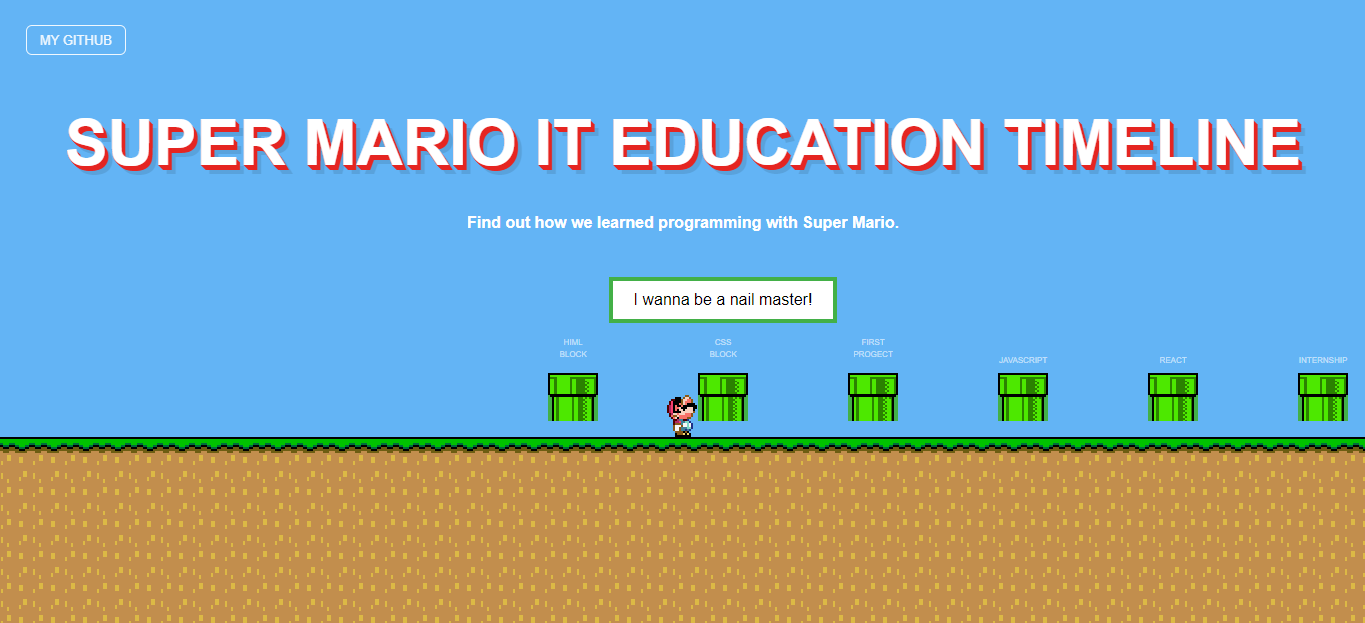
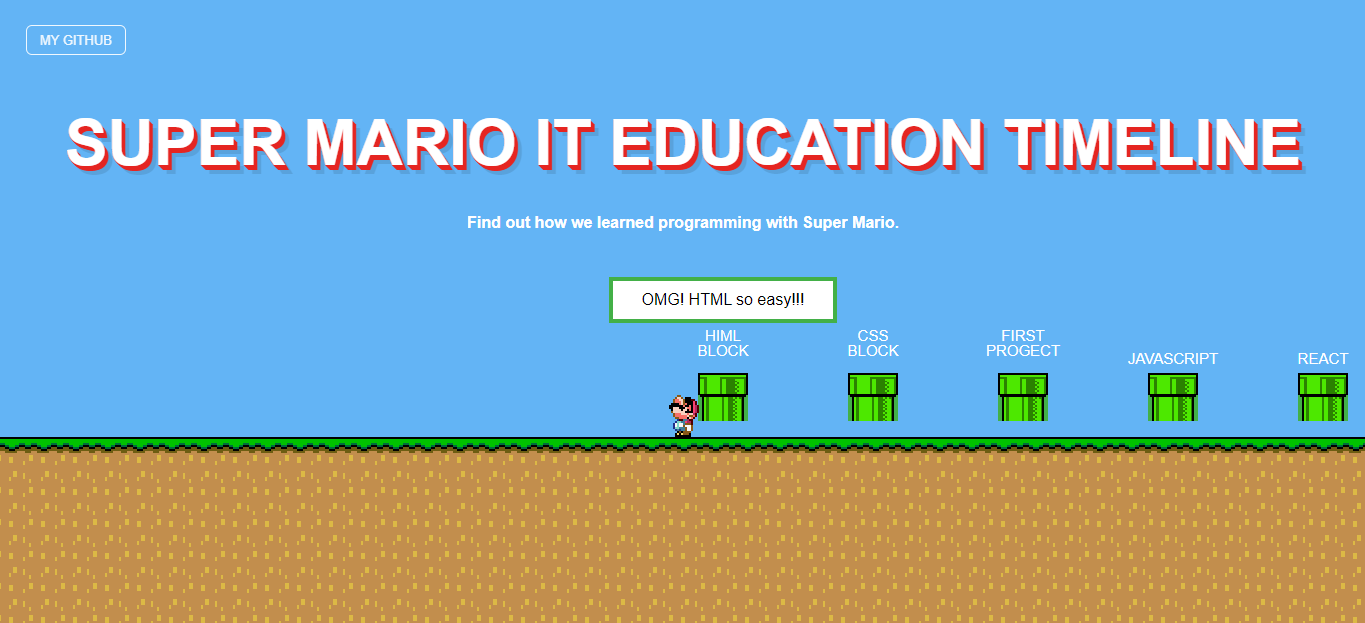
add screen

diff --git a/style.scss b/style.scss
@@ -84,7 +84,7 @@ body {
         }
 
         h2 {
-          font-size: 11px;
+          font-size: 15px;
           line-height: 14px;
           margin-bottom: 10px;
         }
@@ -121,11 +121,11 @@ body {
 
         &::before {
           content: attr(data-month);
-          font-size: 8px;
+          font-size: 15px;
           text-transform: uppercase;
-          line-height: 12px;
+          line-height: 15px;
           text-align: center;
-          color: rgba(white, 0.6);
+          color: white;
           top: 0;
           left: 50%;
           transform: translate(-50%, -150%);

diff --git a/style.css b/style.css
@@ -72,7 +72,7 @@ body {
     font-size: 32px;
   }
   .container .stage header h2 {
-    font-size: 11px;
+    font-size: 15px;
     line-height: 14px;
     margin-bottom: 10px;
   }
@@ -105,11 +105,11 @@ body {
 }
 .container .stage #events .event::before {
   content: attr(data-month);
-  font-size: 8px;
+  font-size: 15px;
   text-transform: uppercase;
-  line-height: 12px;
+  line-height: 15px;
   text-align: center;
-  color: rgba(255, 255, 255, 0.6);
+  color: white;
   top: 0;
   left: 50%;
   transform: translate(-50%, -150%);
